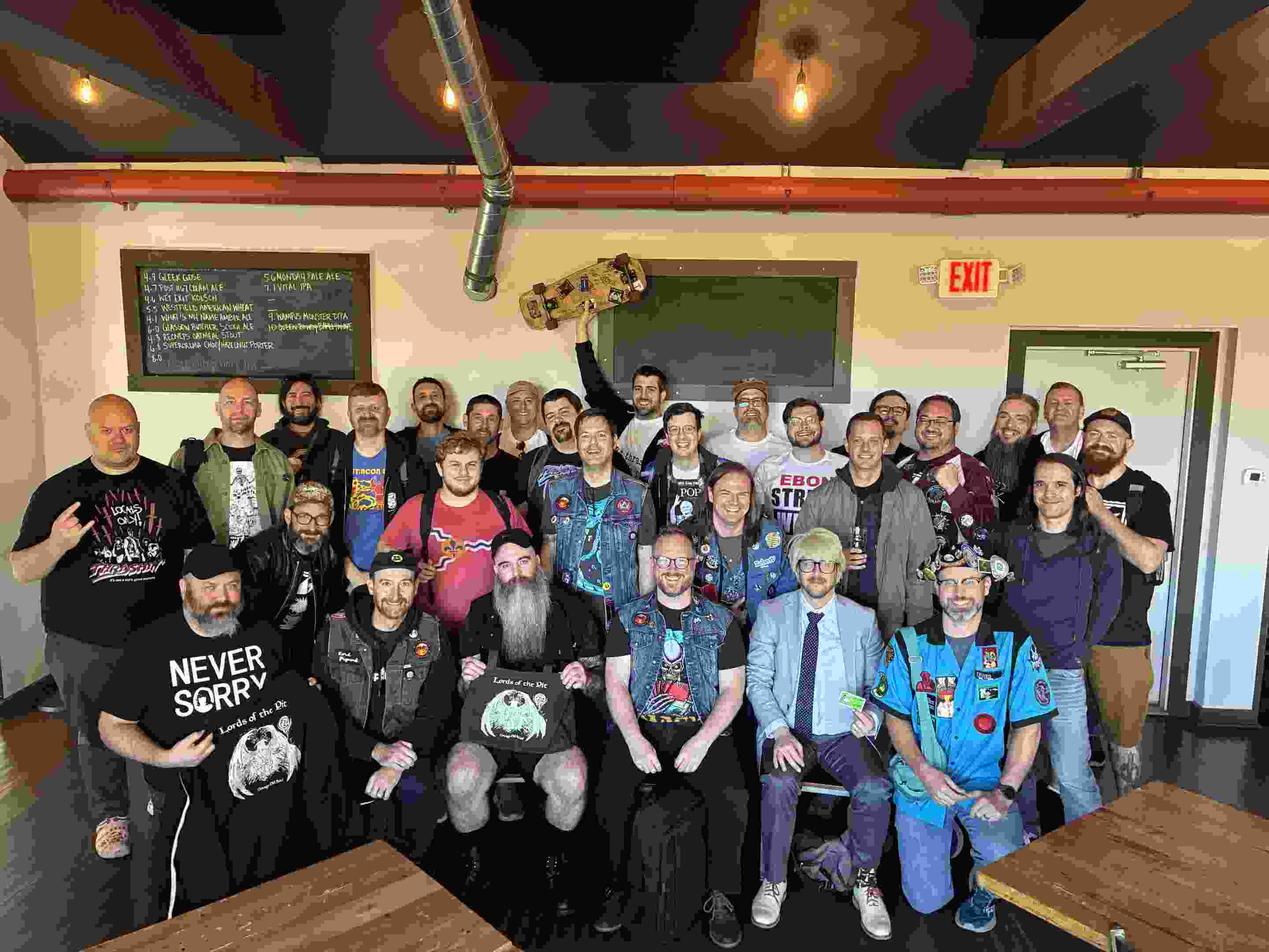
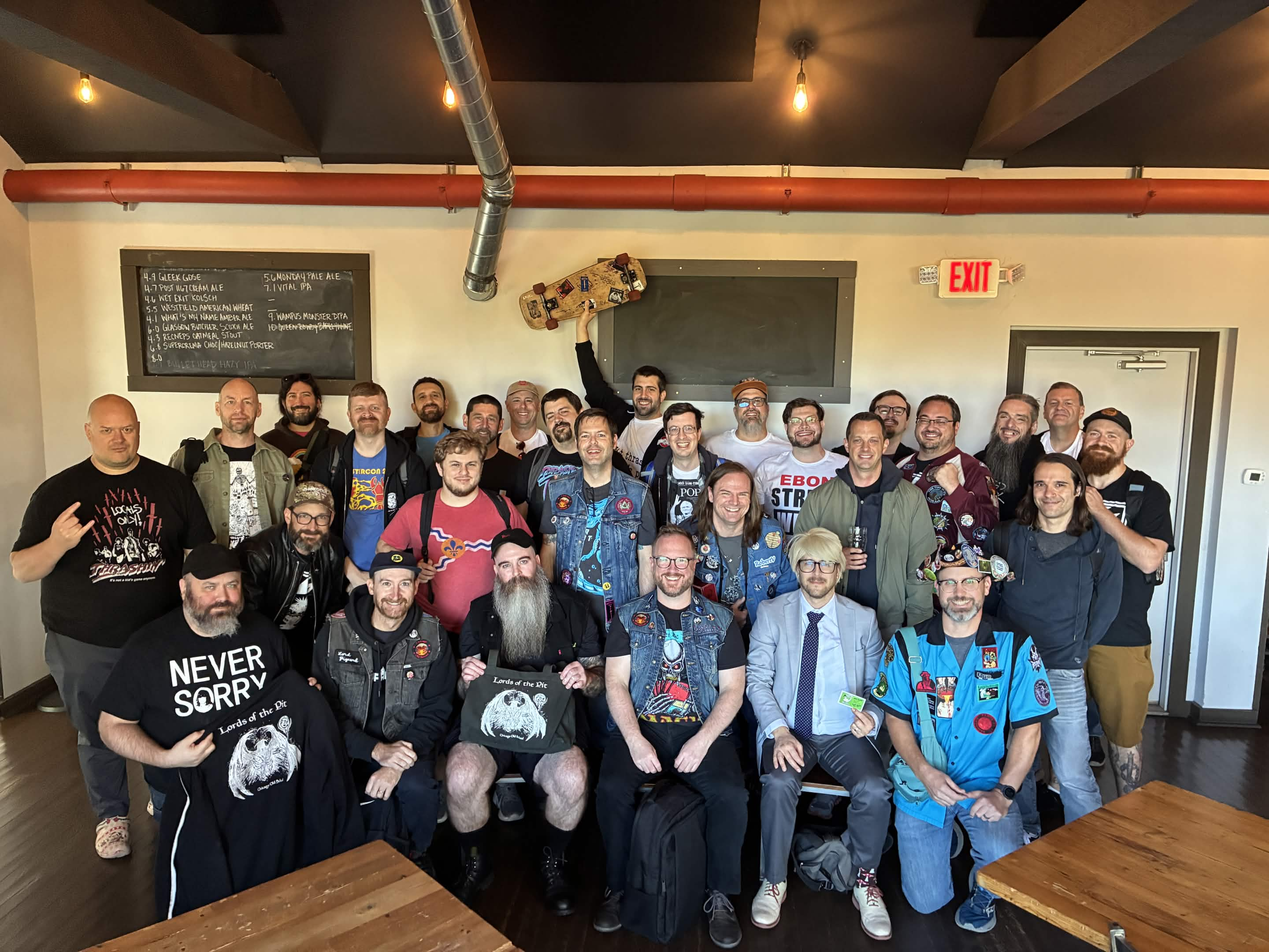
image 25 quality

diff --git a/_posts/2025-10-27-Thrash-Bash-5.md b/_posts/2025-10-27-Thrash-Bash-5.md
@@ -91,3 +91,5 @@ I don’t know about anybody else, but I always get super juiced for the next Th
 {% include figure.liquid loading="eager" path="assets/img/thrash5/25.jpg" class="img-fluid rounded z-depth-1" zoomable=true %}
 
 > "Breakin' is a memory. For wimps." -Hook
+
+{% include figure.liquid loading="eager" path="assets/img/thrash5/12.jpg" class="img-fluid rounded z-depth-1" zoomable=true %}
